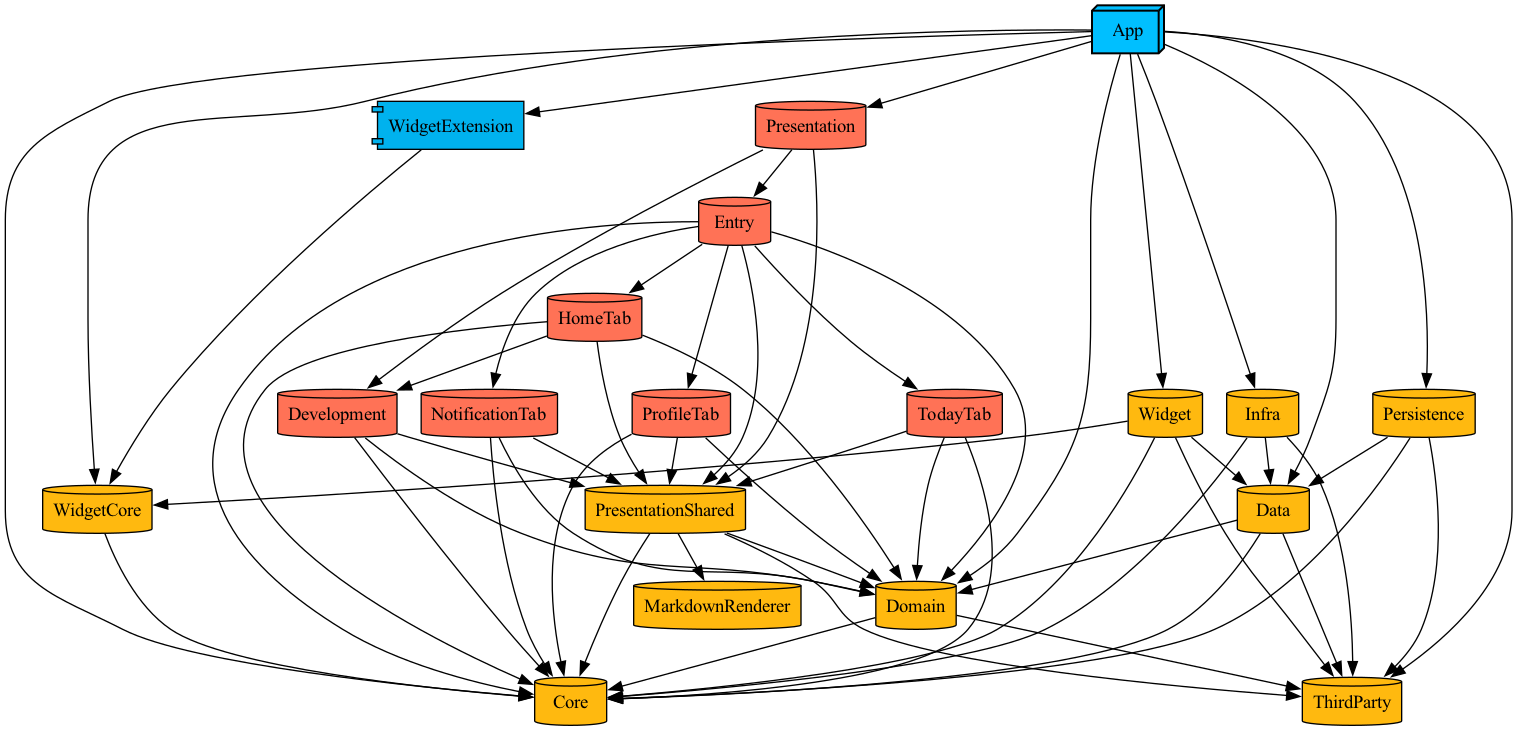
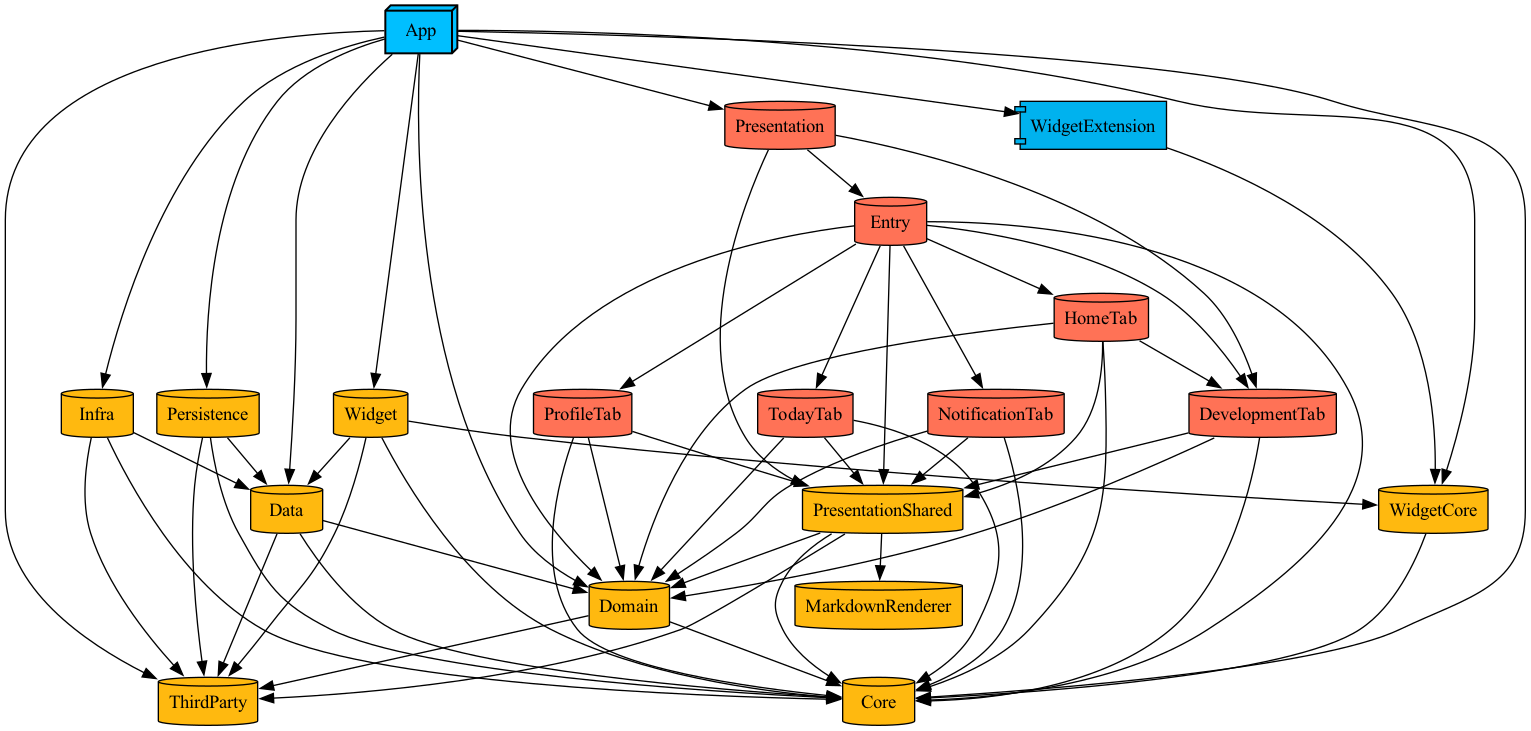
refactor: Development 모듈을 DevelopmentTab으로 통합

diff --git a/Application/Presentation/Project.swift b/Application/Presentation/Project.swift
@@ -89,53 +89,6 @@ let project = Project(
             )
         ),
         .target(
-            name: "Development",
-            destinations: .iOS,
-            product: .staticFramework,
-            bundleId: "com.opfic.DevLog.Development",
-            infoPlist: .file(path: frameworkInfoPlistPath),
-            sources: ["Development/Sources/**/*.swift"],
-            scripts: [
-                DevLogScripts.swiftLint(
-                    sourcePath: "Development/Sources",
-                    configPath: "Development/Sources/.swiftlint.yml"
-                )
-            ],
-            dependencies: [
-                .project(target: "Domain", path: "../Domain"),
-                .project(target: "Core", path: "../Core"),
-                .target(name: "PresentationShared")
-            ],
-            settings: frameworkBuildSettings
-        ),
-        .target(
-            name: "DevelopmentTests",
-            destinations: .iOS,
-            product: .unitTests,
-            bundleId: "com.opfic.DevLog.DevelopmentTests",
-            infoPlist: .file(path: testsInfoPlistPath),
-            sources: ["Development/Tests/**/*.swift"],
-            scripts: [
-                DevLogScripts.swiftLint(
-                    sourcePath: "Development/Tests",
-                    configPath: "Development/Tests/.swiftlint.yml"
-                )
-            ],
-            dependencies: [
-                .project(target: "Domain", path: "../Domain"),
-                .project(target: "Core", path: "../Core"),
-                .target(name: "Development"),
-                .target(name: "PresentationShared"),
-                thirdPartyDependency,
-            ],
-            settings: .devlog(
-                base: [
-                    "ENABLE_USER_SCRIPT_SANDBOXING": "NO",
-                    "TEST_TARGET_NAME": "Development"
-                ]
-            )
-        ),
-        .target(
             name: "HomeTab",
             destinations: .iOS,
             product: .staticFramework,
@@ -151,7 +104,7 @@ let project = Project(
             dependencies: [
                 .project(target: "Domain", path: "../Domain"),
                 .project(target: "Core", path: "../Core"),
-                .target(name: "Development"),
+                .target(name: "DevelopmentTab"),
                 .target(name: "PresentationShared")
             ],
             settings: frameworkBuildSettings
@@ -171,7 +124,7 @@ let project = Project(
             ],
             dependencies: [
                 .target(name: "HomeTab"),
-                .target(name: "Development"),
+                .target(name: "DevelopmentTab"),
                 .target(name: "PresentationShared"),
                 thirdPartyDependency,
             ],
@@ -198,7 +151,6 @@ let project = Project(
             dependencies: [
                 .project(target: "Domain", path: "../Domain"),
                 .project(target: "Core", path: "../Core"),
-                .target(name: "Development"),
                 .target(name: "PresentationShared")
             ],
             settings: frameworkBuildSettings
@@ -220,7 +172,6 @@ let project = Project(
                 .project(target: "Domain", path: "../Domain"),
                 .project(target: "Core", path: "../Core"),
                 .target(name: "DevelopmentTab"),
-                .target(name: "Development"),
                 .target(name: "PresentationShared"),
                 thirdPartyDependency,
             ],
@@ -437,7 +388,7 @@ let project = Project(
             ],
             dependencies: [
                 .target(name: "Entry"),
-                .target(name: "Development"),
+                .target(name: "DevelopmentTab"),
                 .target(name: "PresentationShared")
             ],
             settings: frameworkBuildSettings

diff --git a/Application/App/Sources/App/Dependency/AppGraph+PresentationDependencies.swift b/Application/App/Sources/App/Dependency/AppGraph+PresentationDependencies.swift
@@ -24,7 +24,7 @@ extension AppGraph {
 
 private extension AppGraph {
     func prepareDevelopmentDependencies(_ dependencies: inout DependencyValues) {
-        DevelopmentDependencyPreparation.prepareGoal(
+        DevelopmentTabPresentationDependencyPreparation.prepareGoal(
             &dependencies,
             createGoalUseCase: developmentGraphSet
                 .developmentGoalUseCaseGraph
@@ -36,7 +36,7 @@ private extension AppGraph {
                 .developmentGoalUseCaseGraph
                 .updateDevelopmentGoalStatusUseCase
         )
-        DevelopmentDependencyPreparation.prepareQuery(
+        DevelopmentTabPresentationDependencyPreparation.prepareQuery(
             &dependencies,
             fetchRecordsUseCase: developmentGraphSet
                 .developmentRecordQueryUseCaseGraph
@@ -48,7 +48,7 @@ private extension AppGraph {
                 .developmentRecordQueryUseCaseGraph
                 .fetchDevelopmentRecordVersionUseCase
         )
-        DevelopmentDependencyPreparation.prepareMutation(
+        DevelopmentTabPresentationDependencyPreparation.prepareMutation(
             &dependencies,
             createRecordUseCase: developmentGraphSet
                 .developmentRecordMutationUseCaseGraph
@@ -63,7 +63,7 @@ private extension AppGraph {
                 .developmentRecordMutationUseCaseGraph
                 .restoreDevelopmentRecordUseCase
         )
-        DevelopmentDependencyPreparation.prepareTodo(
+        DevelopmentTabPresentationDependencyPreparation.prepareTodo(
             &dependencies,
             fetchTodosUseCase: todoGraphSet.todoUseCaseGraph.fetchTodosUseCase,
             updateTodoGoalUseCase: todoGraphSet.todoGoalUseCaseGraph.updateTodoGoalUseCase
@@ -71,7 +71,7 @@ private extension AppGraph {
     }
 
     func prepareDevelopmentTabDependencies(_ dependencies: inout DependencyValues) {
-        DevelopmentTabPresentationDependencyPreparation.prepare(
+        DevelopmentTabPresentationDependencyPreparation.prepareGoalList(
             &dependencies,
             goalsUseCase: developmentGraphSet
                 .developmentGoalUseCaseGraph

diff --git a/Application/Presentation/DevelopmentTab/Sources/Dependency/DevelopmentTabDependencyPreparation.swift b/Application/Presentation/DevelopmentTab/Sources/Dependency/DevelopmentTabDependencyPreparation.swift
@@ -1,14 +1,23 @@
 //
-//  DevelopmentDependencyPreparation.swift
-//  Development
+//  DevelopmentTabDependencyPreparation.swift
+//  DevelopmentTab
 //
-//  Created by opfic on 9/13/26.
+//  Created by opfic on 10/5/26.
 //
 
 import Domain
 import PresentationShared
 
-public enum DevelopmentDependencyPreparation {
+public enum DevelopmentTabDependencyPreparation {
+    public static func prepareGoalList(
+        _ dependencies: inout DependencyValues,
+        goalsUseCase: FetchDevelopmentGoalsUseCase,
+        recentRecordUseCase: FetchRecentDevelopmentRecordUseCase
+    ) {
+        dependencies.developmentTabFetchGoalsUseCase = goalsUseCase
+        dependencies.developmentTabFetchRecentRecordUseCase = recentRecordUseCase
+    }
+
     public static func prepareGoal(
         _ dependencies: inout DependencyValues,
         createGoalUseCase: CreateDevelopmentGoalUseCase,
@@ -53,6 +62,7 @@ public enum DevelopmentDependencyPreparation {
         dependencies.developmentUpdateTodoGoalUseCase = updateTodoGoalUseCase
     }
 }
+
 
 extension DependencyValues {
     var developmentCreateGoalUseCase: CreateDevelopmentGoalUseCase {

diff --git a/Application/Presentation/DevelopmentTab/Sources/Record/GoalDetail/GoalDetailViewSupport.swift b/Application/Presentation/DevelopmentTab/Sources/Record/GoalDetail/GoalDetailViewSupport.swift
@@ -85,14 +85,14 @@ struct TimelineRow: View {
     }
 }
 
-public struct GoalStatusBadge: View {
+struct GoalStatusBadge: View {
     let status: DevelopmentGoal.Status
 
-    public init(status: DevelopmentGoal.Status) {
+    init(status: DevelopmentGoal.Status) {
         self.status = status
     }
 
-    public var body: some View {
+    var body: some View {
         Label(status.title, systemImage: systemImage)
         .font(.caption.weight(.semibold))
         .foregroundStyle(foreground)

diff --git a/Application/Presentation/DevelopmentTab/Tests/DevelopmentGoalListTestDoubles.swift b/Application/Presentation/DevelopmentTab/Tests/DevelopmentGoalListTestDoubles.swift
@@ -29,7 +29,7 @@ struct StoreTestAdapter {
         store = TestStore(initialState: DevelopmentGoalListFeature.State()) {
             DevelopmentGoalListFeature()
         } withDependencies: {
-            DevelopmentTabDependencyPreparation.prepare(
+            DevelopmentTabDependencyPreparation.prepareGoalList(
                 &$0,
                 goalsUseCase: goalsSpy,
                 recentRecordUseCase: recentRecordSpy

diff --git a/Application/Presentation/DevelopmentTab/Sources/Record/RecordPresentation.swift b/Application/Presentation/DevelopmentTab/Sources/Record/RecordPresentation.swift
@@ -8,12 +8,12 @@
 import SwiftUI
 import PresentationShared
 
-public enum RecordPresentation {
+enum RecordPresentation {
     static func text(_ key: String.LocalizationValue) -> String {
         String(localized: key, bundle: PresentationResources.bundle)
     }
 
-    public static func versionLabel(_ number: Int) -> String {
+    static func versionLabel(_ number: Int) -> String {
         "#\(number)"
     }
 }

diff --git a/Application/Presentation/DevelopmentTab/Tests/Record/GoalDetailDestinationTests.swift b/Application/Presentation/DevelopmentTab/Tests/Record/GoalDetailDestinationTests.swift
@@ -9,7 +9,7 @@ import Domain
 import Foundation
 import PresentationShared
 import Testing
-@testable import Development
+@testable import DevelopmentTab
 
 @MainActor
 struct GoalDetailDestinationTests {

diff --git a/Application/Presentation/DevelopmentTab/Tests/Record/GoalDetailFeatureTests.swift b/Application/Presentation/DevelopmentTab/Tests/Record/GoalDetailFeatureTests.swift
@@ -9,7 +9,7 @@ import Testing
 import Domain
 import Foundation
 import PresentationShared
-@testable import Development
+@testable import DevelopmentTab
 
 @MainActor
 struct GoalDetailFeatureTests {

diff --git a/Application/Presentation/DevelopmentTab/Tests/Record/GoalDetailTodoFeatureTests.swift b/Application/Presentation/DevelopmentTab/Tests/Record/GoalDetailTodoFeatureTests.swift
@@ -9,7 +9,7 @@ import Testing
 import Core
 import Domain
 import PresentationShared
-@testable import Development
+@testable import DevelopmentTab
 
 @MainActor
 struct GoalDetailTodoFeatureTests {

diff --git a/Application/Presentation/DevelopmentTab/Tests/Record/GoalTodoLinkFeatureTests.swift b/Application/Presentation/DevelopmentTab/Tests/Record/GoalTodoLinkFeatureTests.swift
@@ -9,7 +9,7 @@ import Testing
 import Core
 import Domain
 import PresentationShared
-@testable import Development
+@testable import DevelopmentTab
 
 @MainActor
 struct GoalTodoLinkFeatureTests {

diff --git a/Application/Presentation/DevelopmentTab/Tests/Record/RecordDetailFeatureTests.swift b/Application/Presentation/DevelopmentTab/Tests/Record/RecordDetailFeatureTests.swift
@@ -8,7 +8,7 @@
 import Foundation
 import Testing
 import PresentationShared
-@testable import Development
+@testable import DevelopmentTab
 
 @MainActor
 struct RecordDetailFeatureTests {

diff --git a/Application/Presentation/DevelopmentTab/Tests/Record/RecordEditorFeatureTests.swift b/Application/Presentation/DevelopmentTab/Tests/Record/RecordEditorFeatureTests.swift
@@ -8,7 +8,7 @@
 import Testing
 import Domain
 import PresentationShared
-@testable import Development
+@testable import DevelopmentTab
 
 @MainActor
 struct RecordEditorFeatureTests {
